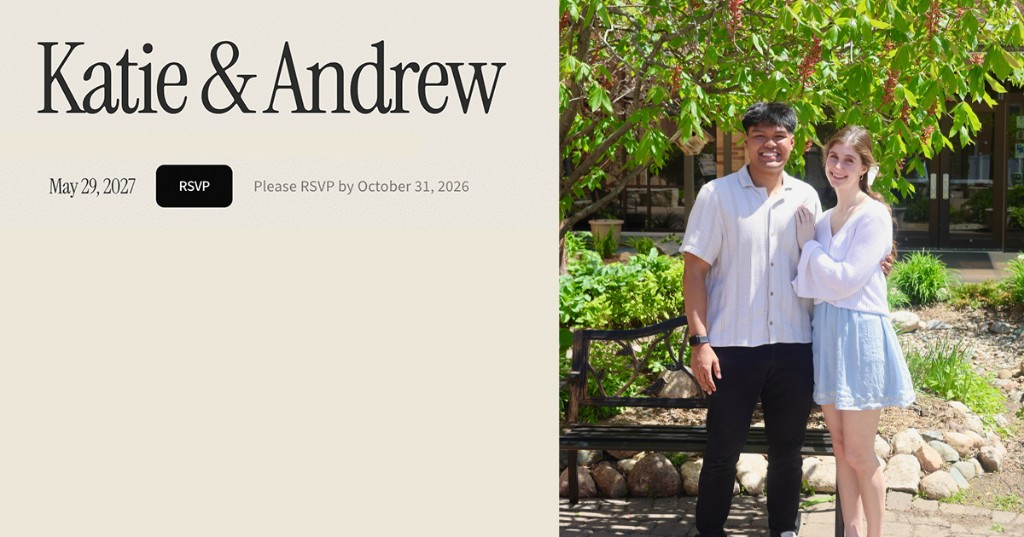
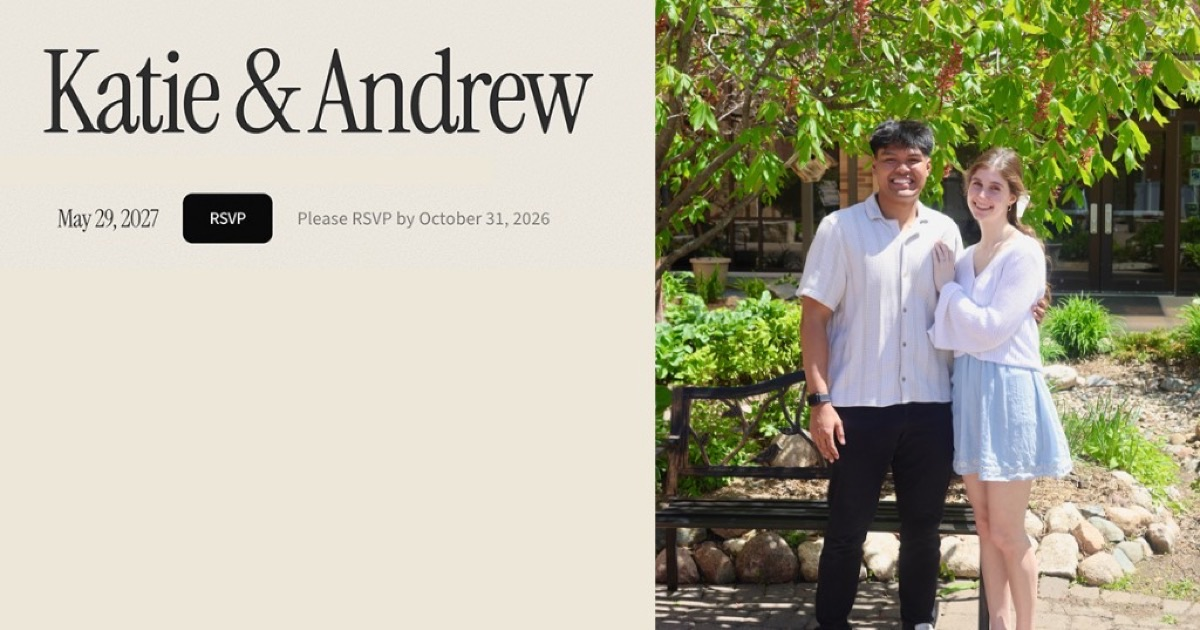
Use real venue photos and size the social preview for iMessage.

diff --git a/reception.html b/reception.html
@@ -7,14 +7,17 @@
     <meta name="description" content="The wedding reception of Katie and Andrew at Raspberry Hill Bed &amp; Breakfast in Ames, Iowa." />
     <meta property="og:title" content="The Reception — Katie &amp; Andrew" />
     <meta property="og:description" content="The wedding reception of Katie and Andrew at Raspberry Hill Bed &amp; Breakfast in Ames, Iowa." />
-    <meta property="og:image" content="https://katieandrew.wedding/og.jpg" />
-    <meta property="og:image:width" content="1024" />
-    <meta property="og:image:height" content="537" />
+    <meta property="og:image" content="https://katieandrew.wedding/og.jpg?v=2" />
+    <meta property="og:image:secure_url" content="https://katieandrew.wedding/og.jpg?v=2" />
+    <meta property="og:image:type" content="image/jpeg" />
+    <meta property="og:image:width" content="1200" />
+    <meta property="og:image:height" content="630" />
+    <meta property="og:image:alt" content="Katie and Andrew" />
     <meta property="og:url" content="https://katieandrew.wedding/reception" />
     <meta property="og:type" content="website" />
     <meta name="twitter:card" content="summary_large_image" />
     <meta name="twitter:title" content="The Reception — Katie &amp; Andrew" />
-    <meta name="twitter:image" content="https://katieandrew.wedding/og.jpg" />
+    <meta name="twitter:image" content="https://katieandrew.wedding/og.jpg?v=2" />
     <link rel="preconnect" href="https://fonts.googleapis.com" />
     <link rel="preconnect" href="https://fonts.gstatic.com" crossorigin />
     <link
@@ -108,20 +111,26 @@
             <div class="carousel__track">
               <div class="carousel__slide active">
                 <img
-                  src="/images/reception/reception-1.jpeg"
-                  alt="A decorated reception table beneath tall wooden windows at Raspberry Hill."
+                  src="/images/reception/house.jpg"
+                  alt="Front of the Raspberry Hill house, with brick, timber, and flower beds."
                 />
               </div>
               <div class="carousel__slide">
                 <img
-                  src="/images/reception/reception-2.jpeg"
-                  alt="Open-air pavilion at Raspberry Hill in Ames with a snow-covered lawn."
+                  src="/images/reception/lawn.jpg"
+                  alt="Lawn and pavilion at Raspberry Hill, set with chairs at sunset."
                 />
               </div>
               <div class="carousel__slide">
                 <img
-                  src="/images/reception/reception-3.jpeg"
-                  alt="Cottage at Raspberry Hill surrounded by flowers and green foliage."
+                  src="/images/reception/cottage.jpg"
+                  alt="Cottage at Raspberry Hill, surrounded by garden flowers."
+                />
+              </div>
+              <div class="carousel__slide">
+                <img
+                  src="/images/reception/dining.jpg"
+                  alt="Dining room at Raspberry Hill, set beside the stone fireplace."
                 />
               </div>
             </div>
@@ -146,7 +155,7 @@
           </div>
 
           <p class="venue-page__next">
-            <a href="/wedding">The wedding at St. Thomas Aquinas</a>
+            <a href="/wedding">View wedding venue details</a>
           </p>
         </div>
       </section>

diff --git a/wedding.html b/wedding.html
@@ -7,14 +7,17 @@
     <meta name="description" content="The wedding ceremony of Katie and Andrew at St. Thomas Aquinas Church in Ames, Iowa." />
     <meta property="og:title" content="The Wedding — Katie &amp; Andrew" />
     <meta property="og:description" content="The wedding ceremony of Katie and Andrew at St. Thomas Aquinas Church in Ames, Iowa." />
-    <meta property="og:image" content="https://katieandrew.wedding/og.jpg" />
-    <meta property="og:image:width" content="1024" />
-    <meta property="og:image:height" content="537" />
+    <meta property="og:image" content="https://katieandrew.wedding/og.jpg?v=2" />
+    <meta property="og:image:secure_url" content="https://katieandrew.wedding/og.jpg?v=2" />
+    <meta property="og:image:type" content="image/jpeg" />
+    <meta property="og:image:width" content="1200" />
+    <meta property="og:image:height" content="630" />
+    <meta property="og:image:alt" content="Katie and Andrew" />
     <meta property="og:url" content="https://katieandrew.wedding/wedding" />
     <meta property="og:type" content="website" />
     <meta name="twitter:card" content="summary_large_image" />
     <meta name="twitter:title" content="The Wedding — Katie &amp; Andrew" />
-    <meta name="twitter:image" content="https://katieandrew.wedding/og.jpg" />
+    <meta name="twitter:image" content="https://katieandrew.wedding/og.jpg?v=2" />
     <link rel="preconnect" href="https://fonts.googleapis.com" />
     <link rel="preconnect" href="https://fonts.gstatic.com" crossorigin />
     <link
@@ -115,8 +118,9 @@
               </div>
               <div class="carousel__slide">
                 <img
-                  src="/images/church/church-2.jpg"
-                  alt="Pews facing the altar beneath exposed roof beams in St. Thomas Aquinas Catholic Church."
+                  class="is-sanctuary"
+                  src="/images/church/church-sanctuary.jpg"
+                  alt="Sanctuary of St. Thomas Aquinas Catholic Church, with the altar and large crucifix."
                 />
               </div>
               <div class="carousel__slide">
@@ -147,7 +151,7 @@
           </div>
 
           <p class="venue-page__next">
-            <a href="/reception">The reception at Raspberry Hill</a>
+            <a href="/reception">View reception venue details</a>
           </p>
         </div>
       </section>

diff --git a/rsvp.html b/rsvp.html
@@ -7,14 +7,17 @@
     <meta name="description" content="RSVP for Katie and Andrew's wedding." />
     <meta property="og:title" content="RSVP for Katie &amp; Andrew's Wedding Day | May 29, 2027" />
     <meta property="og:description" content="RSVP for Katie and Andrew's wedding." />
-    <meta property="og:image" content="https://katieandrew.wedding/og.jpg" />
-    <meta property="og:image:width" content="1024" />
-    <meta property="og:image:height" content="537" />
+    <meta property="og:image" content="https://katieandrew.wedding/og.jpg?v=2" />
+    <meta property="og:image:secure_url" content="https://katieandrew.wedding/og.jpg?v=2" />
+    <meta property="og:image:type" content="image/jpeg" />
+    <meta property="og:image:width" content="1200" />
+    <meta property="og:image:height" content="630" />
+    <meta property="og:image:alt" content="Katie and Andrew" />
     <meta property="og:url" content="https://katieandrew.wedding/rsvp" />
     <meta property="og:type" content="website" />
     <meta name="twitter:card" content="summary_large_image" />
     <meta name="twitter:title" content="RSVP for Katie &amp; Andrew's Wedding Day | May 29, 2027" />
-    <meta name="twitter:image" content="https://katieandrew.wedding/og.jpg" />
+    <meta name="twitter:image" content="https://katieandrew.wedding/og.jpg?v=2" />
     <link rel="preconnect" href="https://fonts.googleapis.com" />
     <link rel="preconnect" href="https://fonts.gstatic.com" crossorigin />
     <link
@@ -156,7 +159,7 @@
           <div class="rsvp-step-block is-open" id="rsvpFindBlock">
             <div class="rsvp-step-block__body">
               <div class="rsvp-card__intro">
-                <h1 class="section-heading" id="rsvpTitle">RSVP</h1>
+                <h1 class="section-heading" id="rsvpTitle">Confirm your RSVP</h1>
                 <p class="rsvp-help" id="rsvpHelp">Please RSVP by <span data-rsvp-deadline>October 31, 2026</span>. <span class="rsvp-help__aside">Need help? <a href="mailto:katieferg93@gmail.com">Email Katie</a></span></p>
               </div>
               <div class="rsvp-welcome" id="rsvpWelcome" hidden>

diff --git a/index.html b/index.html
@@ -7,14 +7,17 @@
     <meta name="description" content="Katie &amp; Andrew's wedding day, May 29, 2027." />
     <meta property="og:title" content="Katie &amp; Andrew's Wedding Day | May 29, 2027" />
     <meta property="og:description" content="Katie &amp; Andrew's wedding day, May 29, 2027." />
-    <meta property="og:image" content="https://katieandrew.wedding/og.jpg" />
-    <meta property="og:image:width" content="1024" />
-    <meta property="og:image:height" content="537" />
+    <meta property="og:image" content="https://katieandrew.wedding/og.jpg?v=2" />
+    <meta property="og:image:secure_url" content="https://katieandrew.wedding/og.jpg?v=2" />
+    <meta property="og:image:type" content="image/jpeg" />
+    <meta property="og:image:width" content="1200" />
+    <meta property="og:image:height" content="630" />
+    <meta property="og:image:alt" content="Katie and Andrew" />
     <meta property="og:url" content="https://katieandrew.wedding/" />
     <meta property="og:type" content="website" />
     <meta name="twitter:card" content="summary_large_image" />
     <meta name="twitter:title" content="Katie &amp; Andrew's Wedding Day | May 29, 2027" />
-    <meta name="twitter:image" content="https://katieandrew.wedding/og.jpg" />
+    <meta name="twitter:image" content="https://katieandrew.wedding/og.jpg?v=2" />
     <link rel="preconnect" href="https://fonts.googleapis.com" />
     <link rel="preconnect" href="https://fonts.gstatic.com" crossorigin />
     <link

diff --git a/src/rsvp.js b/src/rsvp.js
@@ -634,7 +634,7 @@ export function initRsvp(lenis) {
     const welcomeLabel = byId('rsvpFindHeading')?.querySelector('.rsvp-story__label');
     if (welcomeLabel) welcomeLabel.textContent = 'Welcome';
     const title = byId('rsvpTitle');
-    if (title && title.textContent === 'RSVP') title.textContent = 'Welcome';
+    if (title && title.textContent === 'Confirm your RSVP') title.textContent = 'Welcome';
     byId('rsvpWelcome').hidden = false;
     byId('rsvpHelp').hidden = true;
     searchForm.hidden = true;

diff --git a/src/style.css b/src/style.css
@@ -477,6 +477,8 @@ body.subpage .nav {
 .nav__mobile .nav__dropdown a {
   padding: 0;
   text-align: center;
+  color: var(--color-text-muted);
+  font-weight: 400;
 }
 
 .nav__mobile .nav__menu:hover .nav__dropdown,
@@ -854,6 +856,10 @@ article.letter {
   width: 100%;
   height: 100%;
   object-fit: cover;
+}
+
+.carousel__slide img.is-sanctuary {
+  object-position: center 22%;
 }
 
 .carousel__btn {
